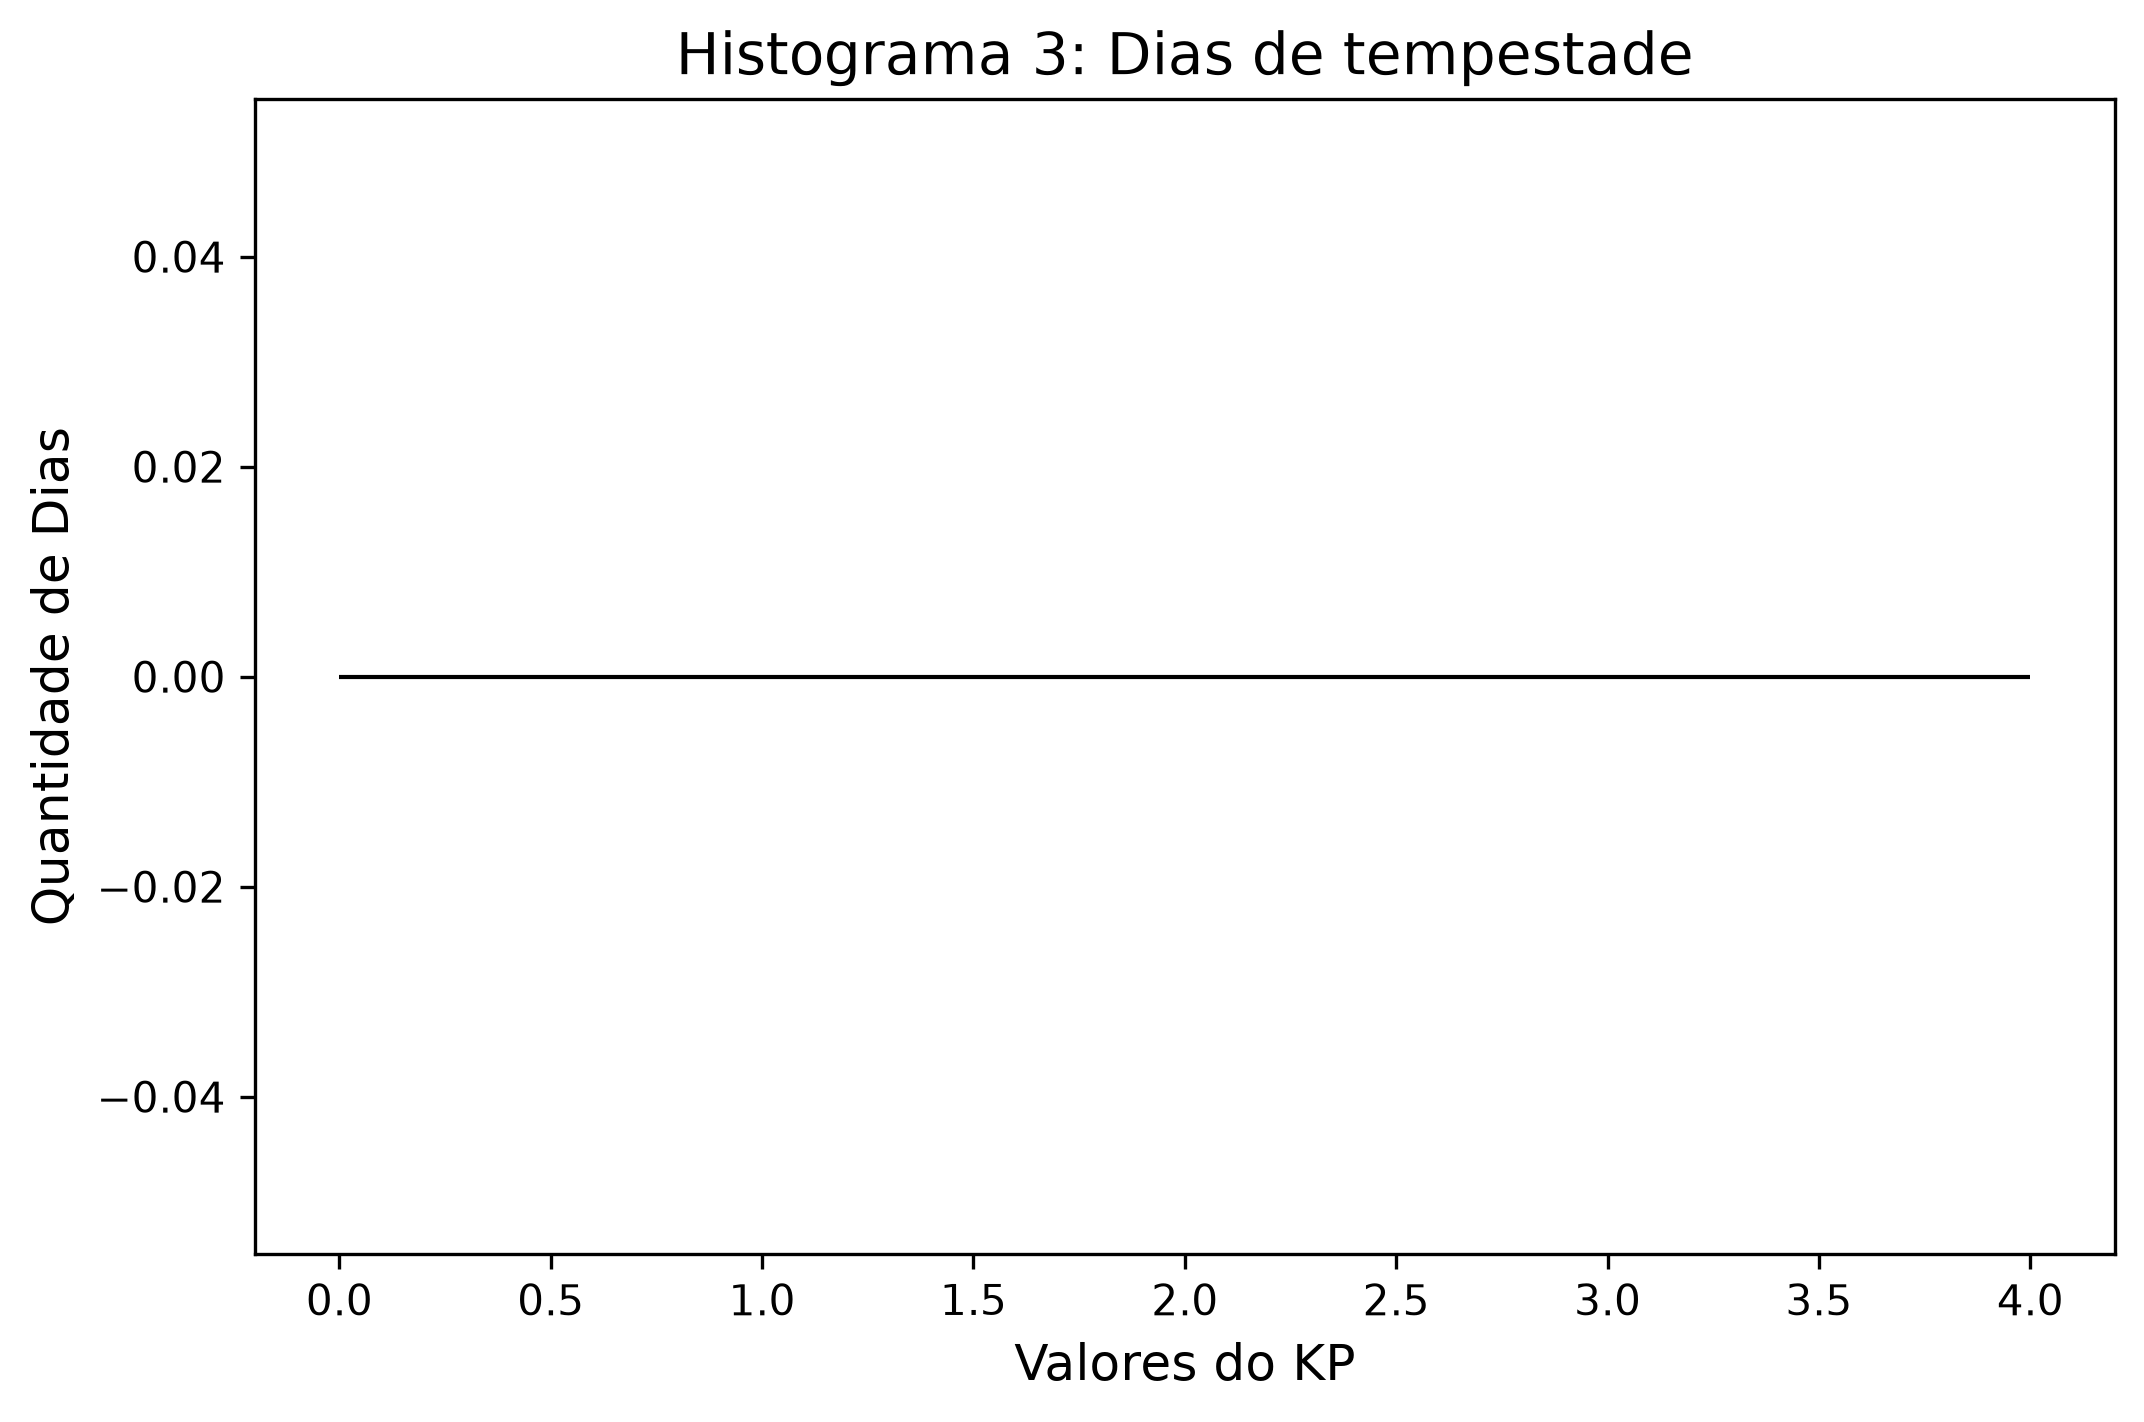
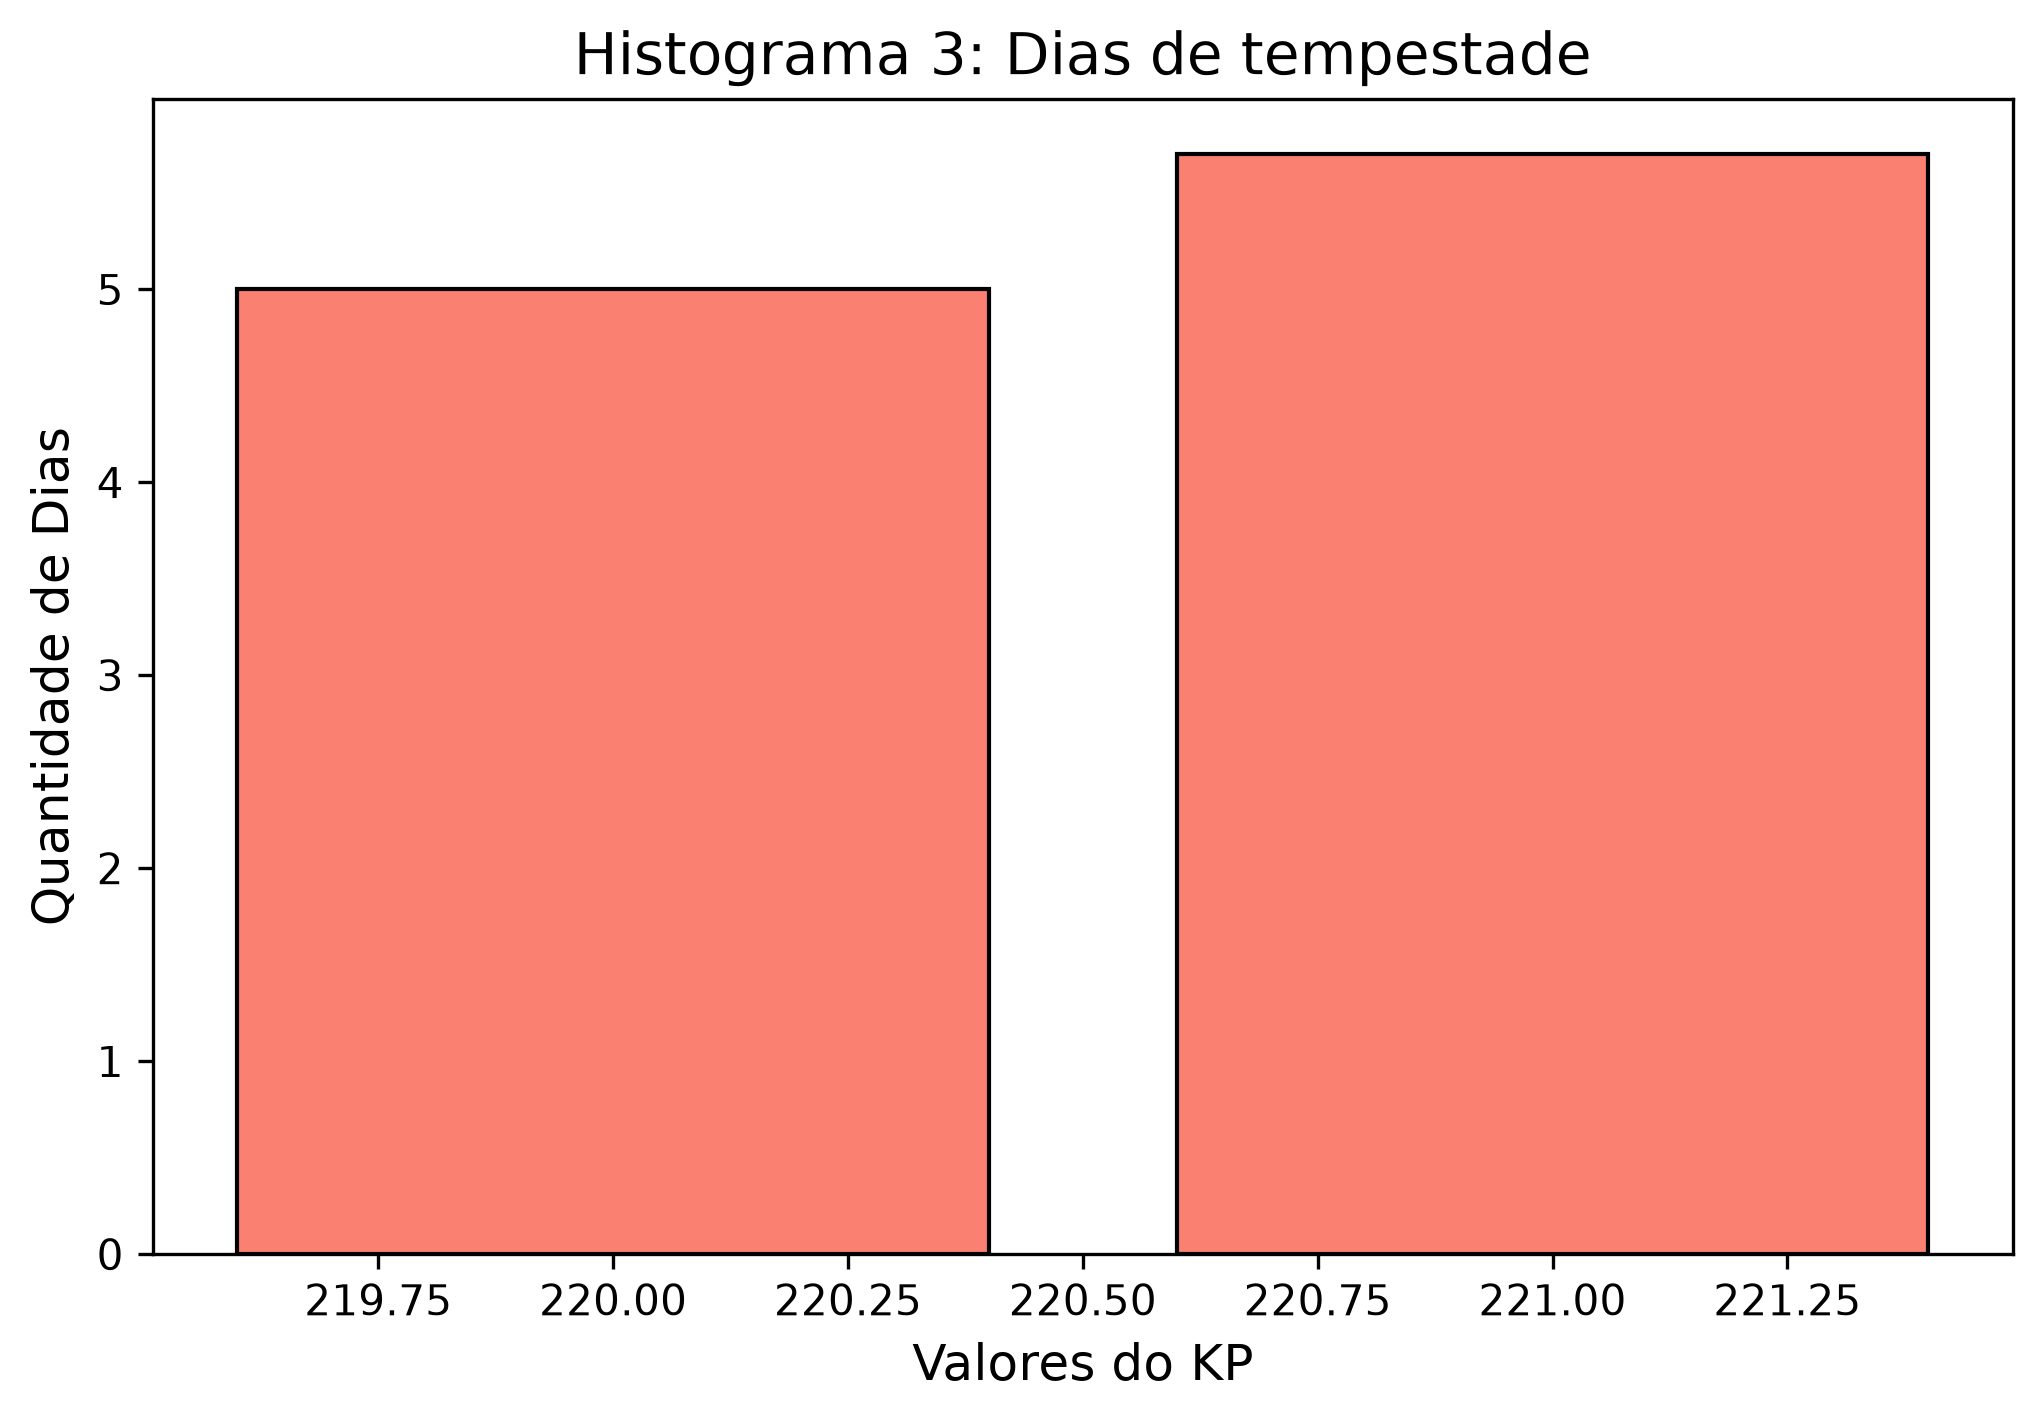
histograma tempestade

diff --git a/dadosKP.py b/dadosKP.py
@@ -1,6 +1,5 @@
 import pandas as pd
 import matplotlib.pyplot as plt
-import numpy as np
 
 tabela = pd.read_csv('valorKp.txt', sep=r'\s+', header=None)
 
@@ -63,7 +62,7 @@ plt.show
 
 #histograma tempestade
 plt.figure(figsize=(8, 5))
-plt.hist(dias_tempestades['KP_Maximo_Diario'], bins=4, range=(0, 4), color='lightblue', edgecolor='black')
+plt.bar(dias_tempestades['Dia do ano'], dias_tempestades['KP_Maximo_Diario'], color='salmon', edgecolor='black')
 plt.title('Histograma 3: Dias de tempestade', fontsize=14)
 plt.xlabel('Valores do KP', fontsize=12)
 plt.ylabel('Quantidade de Dias', fontsize=12)
